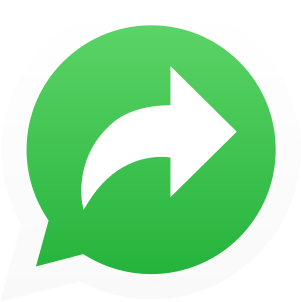
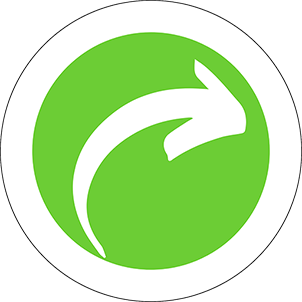
Rebranded WhatsAppr to WhatSharer

diff --git a/src/Info/Info.js b/src/Info/Info.js
@@ -17,7 +17,7 @@ const Info = () => {
                 <p>Whenever you need to spread a pre-typed message, use a WhatsApp Message URL! Type the message, copy the URL generated and share it. 
                     <br/>Some specific use cases would be:
                     <ul>
-                        <li>You have an e-commerce/online store and want your customers to tell their friends about it. You can generate a link on WhatsAppr for your message and use that however you want on your site. Alternatively, you could use our default banner.</li>
+                        <li>You have an e-commerce/online store and want your customers to tell their friends about it. You can generate a link on WhatSharer for your message and use that however you want on your site. Alternatively, you could use our default banner.</li>
                         <li>You want your social media audience to share a pre-typed message with their WhatsApp contacts. Sharing a WhatsApp message URL will allow them to just click the link and send the message directly.</li>
                         <li>If you want your friends on WhatsApp to forward a message on WhatsApp, you could just give them the URL and they can click it for single click forward v/s selecting the message and clicking forward. You also avoid those annoying "Forwarded" labels that way!</li>
                     </ul>
@@ -26,24 +26,24 @@ const Info = () => {
             </div>
             
             <div className="messageBubble white">
-                <h3>What is WhatsAppr? How can I use WhatsAppr? Why would I want to use WhatsAppr?</h3>
-                <p>WhatsAppr is a tool to make WhatsApp messaging easier. You can use it to send the same message to multiple people very quickly, very easily (bulk messaging) or to generate those insanely useful WhatsApp message URLs!
+                <h3>What is WhatSharer? How can I use WhatSharer? Why would I want to use WhatSharer?</h3>
+                <p>WhatSharer is a tool to make WhatsApp messaging easier. You can use it to send the same message to multiple people very quickly, very easily (bulk messaging) or to generate those insanely useful WhatsApp message URLs!
                 </p>
 
-                <p> WhatsAppr is (hopefully) very simple to use! <Emoji symbol="😋" label="cheeky"/>
+                <p> WhatSharer is (hopefully) very simple to use! <Emoji symbol="😋" label="cheeky"/>
                     <ol>
                         <li>Type your message in the first textbox</li>
                         <li>Hit the Share button to send the message to multiple people at once. OR Copy the message URL from the next textbox to use where you want! Alternatively, you could copy our HTML code to embed a simple banner on your site!</li>
                     </ol>
                 </p>
-                <p> Need reasons to use WhatsAppr? <a href="#where">Check the question above! </a>
+                <p> Need reasons to use WhatSharer? <a href="#where">Check the question above! </a>
                 </p>
             </div>
 
             <div className="messageBubble white">
-                <h3>Why/How should I do bulk messaging with WhatsAppr?</h3>
-                <p>Sending a single message to multiple people is very easy on WhatsAppr. Just type your message in, click the Send button below it and then select the contacts/groups to send the message to. 
-                <br/>You might also prefer this because it is easier to type in WhatsAppr's message box than the default WhatsApp text box.
+                <h3>Why/How should I do bulk messaging with WhatSharer?</h3>
+                <p>Sending a single message to multiple people is very easy on WhatSharer. Just type your message in, click the Send button below it and then select the contacts/groups to send the message to. 
+                <br/>You might also prefer this because it is easier to type in WhatSharer's message box than the default WhatsApp text box.
                 </p>
             </div>
 
@@ -55,12 +55,12 @@ const Info = () => {
             </div>
 
             <div className="messageBubble white">
-                <h3>How can I support WhatsAppr?</h3>
-                <p>Thank you for asking that! By using WhatsAppr, you are already supporting it! Additionally, you can also support us by:
+                <h3>How can I support WhatSharer?</h3>
+                <p>Thank you for asking that! By using WhatSharer, you are already supporting it! Additionally, you can also support us by:
                     <ul>
                         <li><a target="_blank" rel="noopener noreferrer" href="https://twitter.com/Incept_shawn">Telling us you like it.</a> Emotional support matters too!<Emoji symbol="🙏" label="prayer"/></li>
                         <li><a target="_blank" rel="noopener noreferrer" href="https://forms.gle/62zX2Rf97wZJ5WGV9">Giving us feedback and suggestions</a></li>
-                        <li><a target="_blank" rel="noopener noreferrer" href="https://github.com/recurshawn/WhatsAppr">Contributing to the code base directly</a>, if you can. WhatsAppr is an Open Source project.</li>
+                        <li><a target="_blank" rel="noopener noreferrer" href="https://github.com/recurshawn/WhatSharer">Contributing to the code base directly</a>, if you can. WhatSharer is an Open Source project.</li>
                         <li><a target="_blank" rel="noopener noreferrer" href="https://ko-fi.com/recurshawn">Monetary donations!</a></li>
                     </ul>
                 </p>

diff --git a/src/App.js b/src/App.js
@@ -11,8 +11,8 @@ import './App.css';
 class App extends React.Component{
 
   state = {
-    message: "Hey there, I am using WhatsAppr.com \n You should check it out!", //Init value if user doesn't type a message
-    messageurl: "https://api.whatsapp.com/send?text=Hey%20there%2C%20I%20am%20using%20WhatsAppr.com%20You%20should%20check%20it%20out!",
+    message: "Hey there, I am using WhatSharer.com \n You should check it out!", //Init value if user doesn't type a message
+    messageurl: "https://api.whatsapp.com/send?text=Hey%20there%2C%20I%20am%20using%20WhatSharer.com%20You%20should%20check%20it%20out!",
     buttoncode: "",
     number: "",
   }
@@ -39,7 +39,7 @@ class App extends React.Component{
     {
       msgEncoded = encodeURIComponent(message);
     } else {
-      msgEncoded = encodeURIComponent("Hey there, I am using WhatsAppr.com \n You should check it out!");
+      msgEncoded = encodeURIComponent("Hey there, I am using WhatSharer.com \n You should check it out!");
     }
     if(number!== '')
     {
@@ -54,7 +54,7 @@ class App extends React.Component{
 
 
   bannercodeGenerator = () => {
-    var bannercode = '<a href="' + this.messageurlGenerator(this.state.message, this.state.number)+'"><img src="https://res.cloudinary.com/dxafjfxod/image/upload/v1567597636/WhatsAppr/banner_jhebut.png" style="display: block; margin-left: auto; margin-right: auto; max-width: 200px; width: 50%;" title="Share on WhatsApp" alt="Share on WhatsApp"></a>';
+    var bannercode = '<a href="' + this.messageurlGenerator(this.state.message, this.state.number)+'"><img src="https://res.cloudinary.com/dxafjfxod/image/upload/v1595861934/WhatSharer/Powered_By_WhatSharer_izeybs.png" style="display: block; margin-left: auto; margin-right: auto; max-width: 200px; width: 50%;" title="Share on WhatsApp" alt="Share on WhatsApp"></a>';
     return bannercode;
   }
 
@@ -67,7 +67,7 @@ class App extends React.Component{
               <a href="#FAQs"><p className="messageBubble red">How do I use this?</p></a>
               <div className = "messageBubble white row">
                 <div className="col"></div>
-                <div className="col"><a href="https://www.producthunt.com/posts/whatsappr?utm_source=badge-top-post-badge&utm_medium=badge&utm_souce=badge-whatsappr" target="_blank" rel="noopener noreferrer"><img src="https://api.producthunt.com/widgets/embed-image/v1/top-post-badge.svg?post_id=167171&theme=dark&period=daily" alt="WhatsAppr - Generate WhatsApp message URLs & send bulk messages easily | Product Hunt Embed" width="250px" height="54px" /></a></div>
+                <div className="col"><a href="https://www.producthunt.com/posts/whatsappr?utm_source=badge-top-post-badge&utm_medium=badge&utm_souce=badge-whatsappr" target="_blank" rel="noopener noreferrer"><img src="https://api.producthunt.com/widgets/embed-image/v1/top-post-badge.svg?post_id=167171&theme=dark&period=daily" alt="WhatSharer - Generate WhatsApp message URLs & send bulk messages easily | Product Hunt Embed" width="250px" height="54px" /></a></div>
                 <div className="col"></div>
               </div>
               <div className = "messageBubble green">

diff --git a/public/index.html b/public/index.html
@@ -3,11 +3,11 @@
   <head>
     <meta charset="utf-8" />
 
-    <meta name="Description" content="Make shareable WhatsApp messages, generate WhatsApp message URLs and send bulk WhatsApp messages easily with WhatsAppr."/>
-    <meta property="og:title" content="WhatsAppr - Enhancing WhatsApp" />
-    <meta property="og:description" content="Make shareable WhatsApp messages, generate WhatsApp message URLs and send bulk WhatsApp messages easily with WhatsAppr." />
+    <meta name="Description" content="Make shareable WhatsApp messages, generate WhatsApp message URLs and send bulk WhatsApp messages easily with WhatSharer."/>
+    <meta property="og:title" content="WhatSharer - Enhancing WhatsApp" />
+    <meta property="og:description" content="Make shareable WhatsApp messages, generate WhatsApp message URLs and send bulk WhatsApp messages easily with WhatSharer." />
     <meta property="og:image" content="%PUBLIC_URL%/ogimage.png"/>
-    <meta property="og:url" content="https://whatsappr.com/" />
+    <meta property="og:url" content="https://whatsharer.com/" />
 
     <!-- Global site tag (gtag.js) - Google Analytics -->
     <script async src="https://www.googletagmanager.com/gtag/js?id=UA-147122575-1"></script>
@@ -21,7 +21,7 @@
 
     <link rel="shortcut icon" href="%PUBLIC_URL%/favicon.png" type="image/png"/>
     
-    <link rel="apple-touch-icon" href="%PUBLIC_URL%/WhatsAppr_Icon.png">
+    <link rel="apple-touch-icon" href="%PUBLIC_URL%/WhatSharer_Icon.png">
     <meta name="viewport" content="width=device-width, initial-scale=1" />
     <meta name="theme-color" content="#000000" />
     <!--
@@ -46,7 +46,7 @@
       work correctly both with client-side routing and a non-root public URL.
       Learn how to configure a non-root public URL by running `npm run build`.
     -->
-    <title>WhatsAppr</title>
+    <title>WhatSharer</title>
   </head>
   <body>
     <noscript>You need to enable JavaScript to run this app.</noscript>

diff --git a/src/BannerArea/BannerArea.js b/src/BannerArea/BannerArea.js
@@ -3,18 +3,7 @@ import CopyArea from '../CopyArea/CopyArea.js';
 import Banner from '../banner.png';
 const BannerArea = (props) => {
   return (
-    
     <div className="BannerArea">
-    {/*
-    <div className="Banner Code">
-    <h3>'Share on WhatsApp' Banner</h3>
-    <a href={props.generateurl()}><img src="https://blog.oppedahl.com/wp-content/uploads/2017/01/whatsapp-share.png" width="140" height="75" title="Share on WhatsApp" alt="Share on WhatsApp"/></a>
-    <p>Embed this on your website!</p>
-    <textarea
-        value={props.bannercode()}
-    />
-    </div>
-    */ }
       <h3>Embeddable Banner</h3>
       <p>Copy the code below to embed a Share on WhatsApp banner on a webpage. </p>
       <CopyArea 
@@ -23,7 +12,7 @@ const BannerArea = (props) => {
       <br/>
       <p>This is what the banner will look like:</p>
 
-      {<a href={props.url()}><img class ="banner" src={Banner} alt="Share on WhatsApp. Made with WhatsAppr.com"/></a>}
+      {<a href={props.url()}><img class ="banner" src={Banner} alt="Share on WhatsApp. Made with WhatSharer.com"/></a>}
 
       
     </div>

diff --git a/src/Footer/Footer.js b/src/Footer/Footer.js
@@ -7,8 +7,8 @@ const Footer = () => {
     <div className="Footer">
         <p>Made with <Emoji symbol="❤" label="love"/> by <a href="https://recurshawn.github.io/">Shawn Pereira</a> Twitter:<a href="https://twitter.com/Incept_shawn">@Incept_shawn</a>
         <br/><a target="_blank" rel="noopener noreferrer" href="https://ko-fi.com/recurshawn"><Emoji symbol="🚀" label="rocket"/> Support this project!</a></p>
-        Disclaimer: WhatsAppr is not affiliated with WhatsApp Inc.
-        <br/>2020 © WhatsAppr | All rights reserved
+        Disclaimer: Whatsharer is not affiliated with WhatsApp Inc.
+        <br/>2020 © Whatsharer | All rights reserved
     </div>
     );
 }

diff --git a/src/Header/Header.js b/src/Header/Header.js
@@ -1,12 +1,12 @@
 import React from 'react';
-import Logo from '../whatsappr logo.svg';
+import Logo from '../WhatSharer Logo.png';
 import './Header.css';
 const Header = () => {
     return(
     <div className="Header">
         <div className="logotext">
-        <img class="logo" src={Logo} alt="WhatsAppr Logo"/>
-        <h1>WhatsAppr</h1>
+        <img className="logo" src={Logo} alt="WhatSharer Logo"/>
+        <h1>WhatSharer</h1>
         </div>
     </div>
     );

diff --git a/src/App.css b/src/App.css
@@ -79,7 +79,7 @@ body {
   margin: 0;
   color: #075e54;
   background-color: rgb(229, 220,213);
-  background-image: url("./WhatsApp background light.jpg");
+  /*background-image: url("./WhatsApp background light.jpg");*/
   text-rendering: optimizeLegibility;
 }
 

diff --git a/README.md b/README.md
@@ -1,16 +1,16 @@
-# [WhatsAppr](https://whatsappr.com)
+# [WhatSharer](https://whatsharer.com)
 
-[![Netlify Status](https://api.netlify.com/api/v1/badges/31dfe589-8aeb-4a06-9684-1723244129ba/deploy-status)](https://app.netlify.com/sites/whatsappr/deploys)
+
 [![License: GPL v3](https://img.shields.io/badge/License-GPLv3-blue.svg)](https://www.gnu.org/licenses/gpl-3.0)
-[![Website](https://img.shields.io/website?down_message=Offline&label=Website&up_message=Online&url=https%3A%2F%2Fwhatsappr.com)](https://whatsappr.com)
-![Star this repository](https://img.shields.io/github/stars/recurshawn/WhatsAppr?style=social)
+[![Website](https://img.shields.io/website?down_message=Offline&label=Website&up_message=Online&url=https%3A%2F%2Fwhatsharer.com)](https://whatsharer.com)
+![Star this repository](https://img.shields.io/github/stars/recurshawn/WhatSharer?style=social)
 [![Follow me on Twitter](https://img.shields.io/twitter/follow/incept_shawn?style=social)](https://twitter.com/incept_shawn)
 [![ko-fi](https://www.ko-fi.com/img/githubbutton_sm.svg)](https://ko-fi.com/recurshawn)
 
 
-WhatsAppr is a tool to make shareable WhatsApp messages, generate WhatsApp message URLs and send bulk WhatsApp messages easily.
+WhatSharer is a tool to make shareable WhatsApp messages, generate WhatsApp message URLs and send bulk WhatsApp messages easily.
 
-> WhatsAppr is an open-source PWA using the GNU-GPLv3 license hosted at https://whatsappr.com/
+> WhatSharer is an open-source PWA using the GNU-GPLv3 license hosted at https://whatsharer.com/
 
 ## How To Use: ##
 ### **For bulk messaging:**
@@ -21,7 +21,7 @@ WhatsAppr is a tool to make shareable WhatsApp messages, generate WhatsApp messa
 
 ## Contributing ##
 ### Ways you can contribute: ###
-- [Contribute to the code](https://github.com/recurshawn/WhatsAppr) Check the next section for technical details of the project.
+- [Contribute to the code](https://github.com/recurshawn/WhatSharer) Check the next section for technical details of the project.
 - [Give Feedback/Suggestions](https://docs.google.com/forms/d/e/1FAIpQLSei0WGO4ZvCdyD9fiAmV_CAltPz_cIfzULnSif2YPTvGuJIUA/viewform)
 - [Monetary Donation](https://ko-fi.com/recurshawn)
 - [Emotional Support](https://twitter.com/Incept_shawn)
@@ -31,9 +31,9 @@ WhatsAppr is a tool to make shareable WhatsApp messages, generate WhatsApp messa
 - CSS, [Bootstrap](http://getbootstrap.com/)
 - JavaScript, [React.js](https://reactjs.org/)
 
-### Working on WhatsAppr locally ###
+### Working on WhatSharer locally ###
 - Clone the repository locally. 
-- Navigate to the directory. `cd whatsappr`.
+- Navigate to the directory. `cd whatsharer`.
 - Run `npm install` to install dependencies.
 - Run `npm run start` to start the development server.
 - Run `npm run test` to test.
